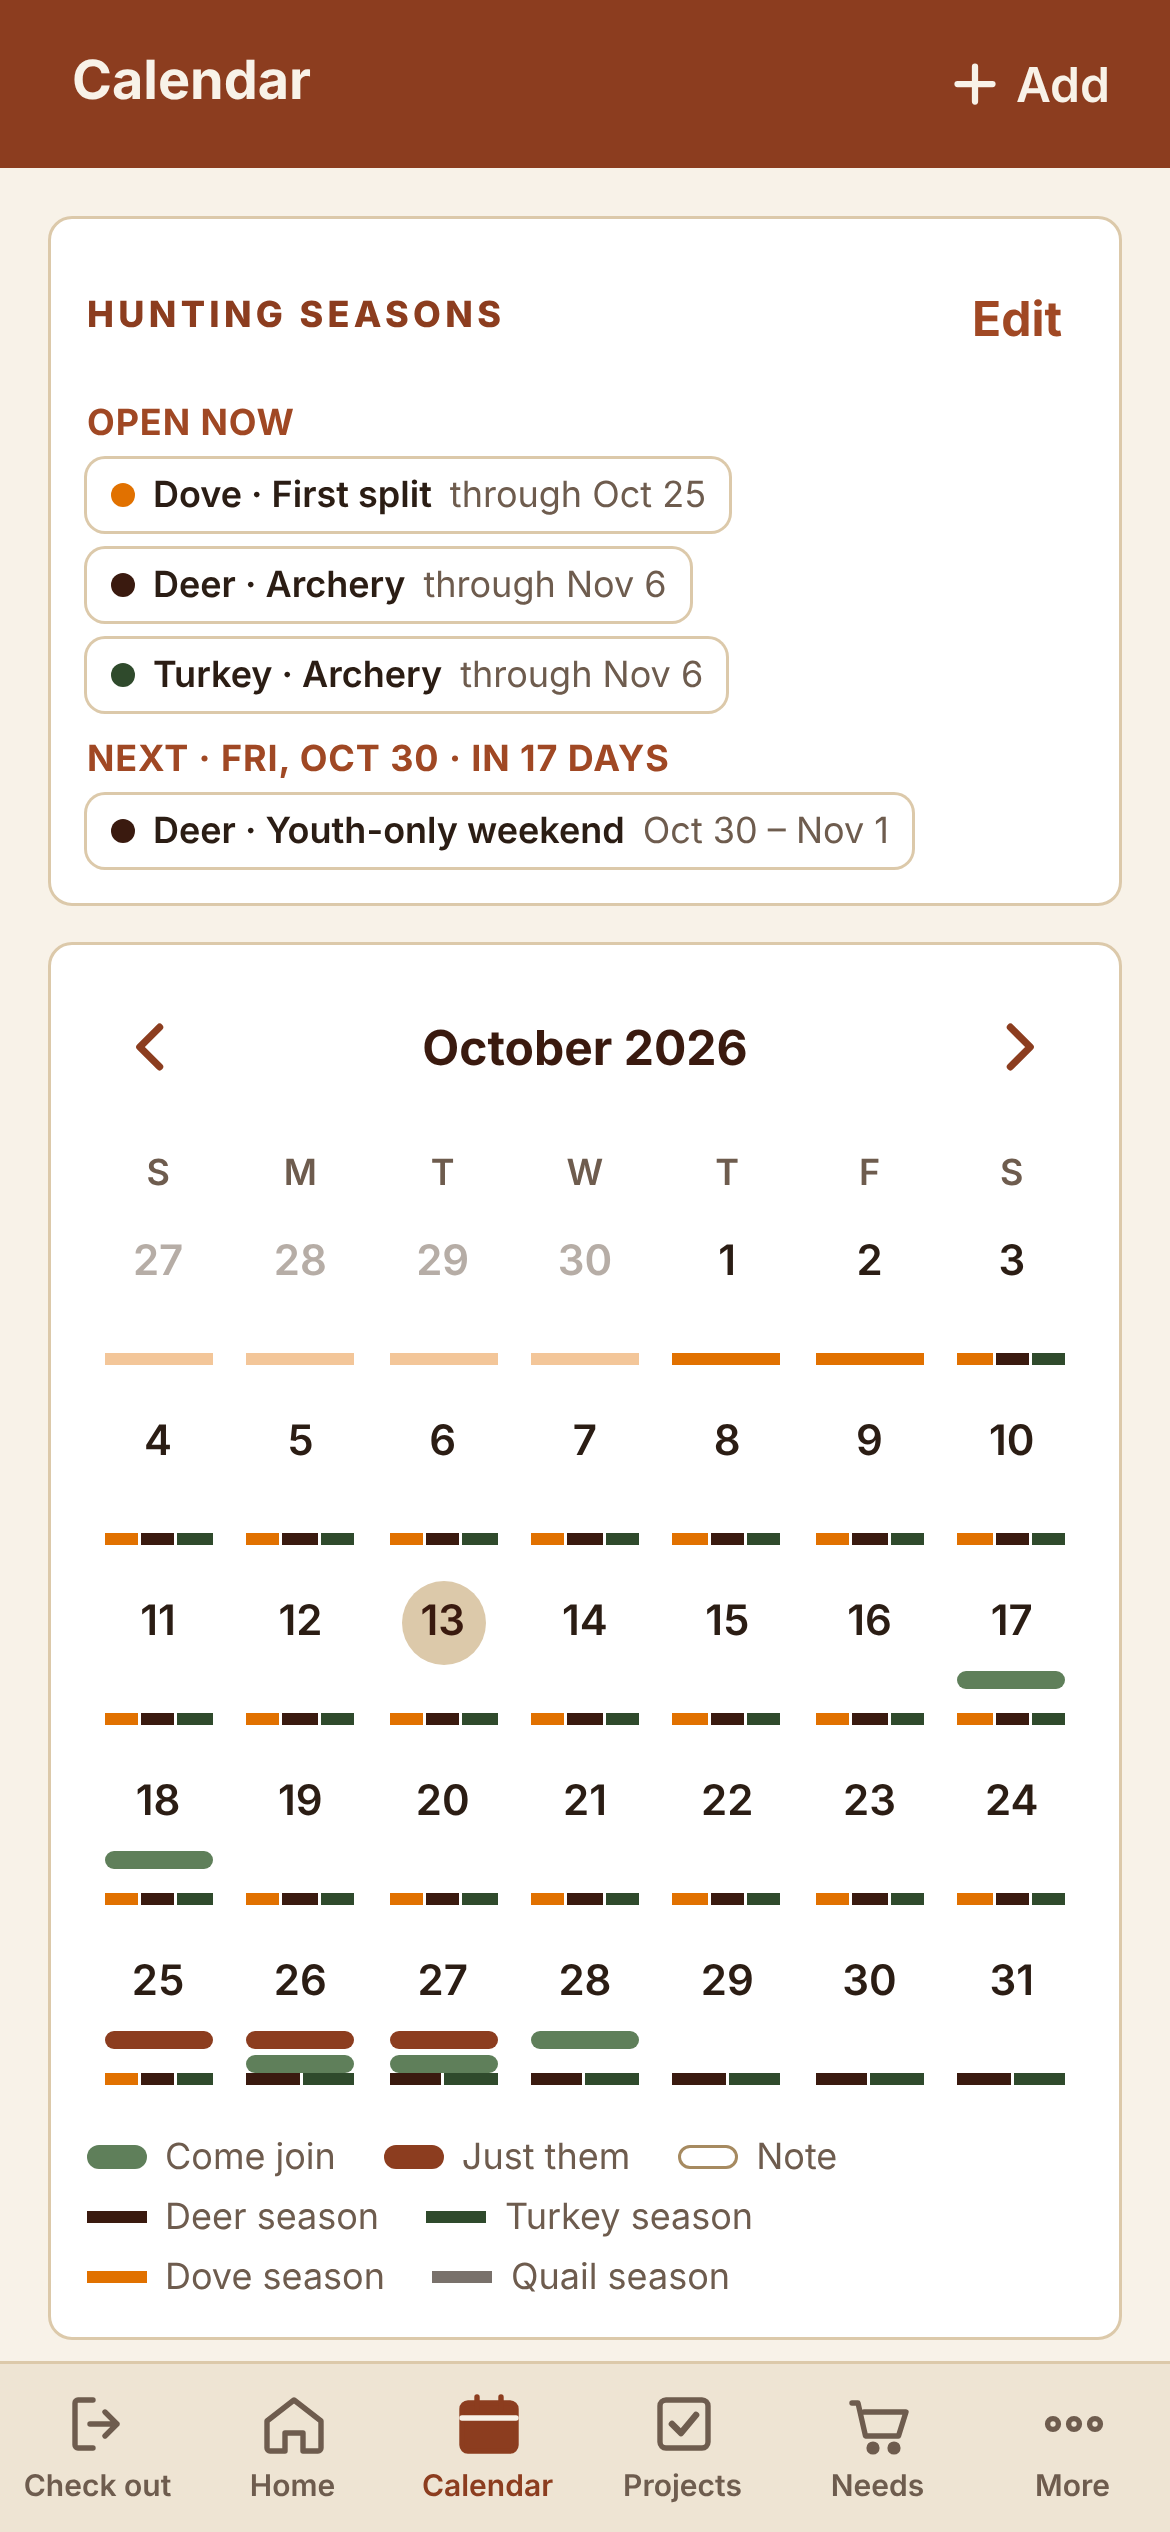
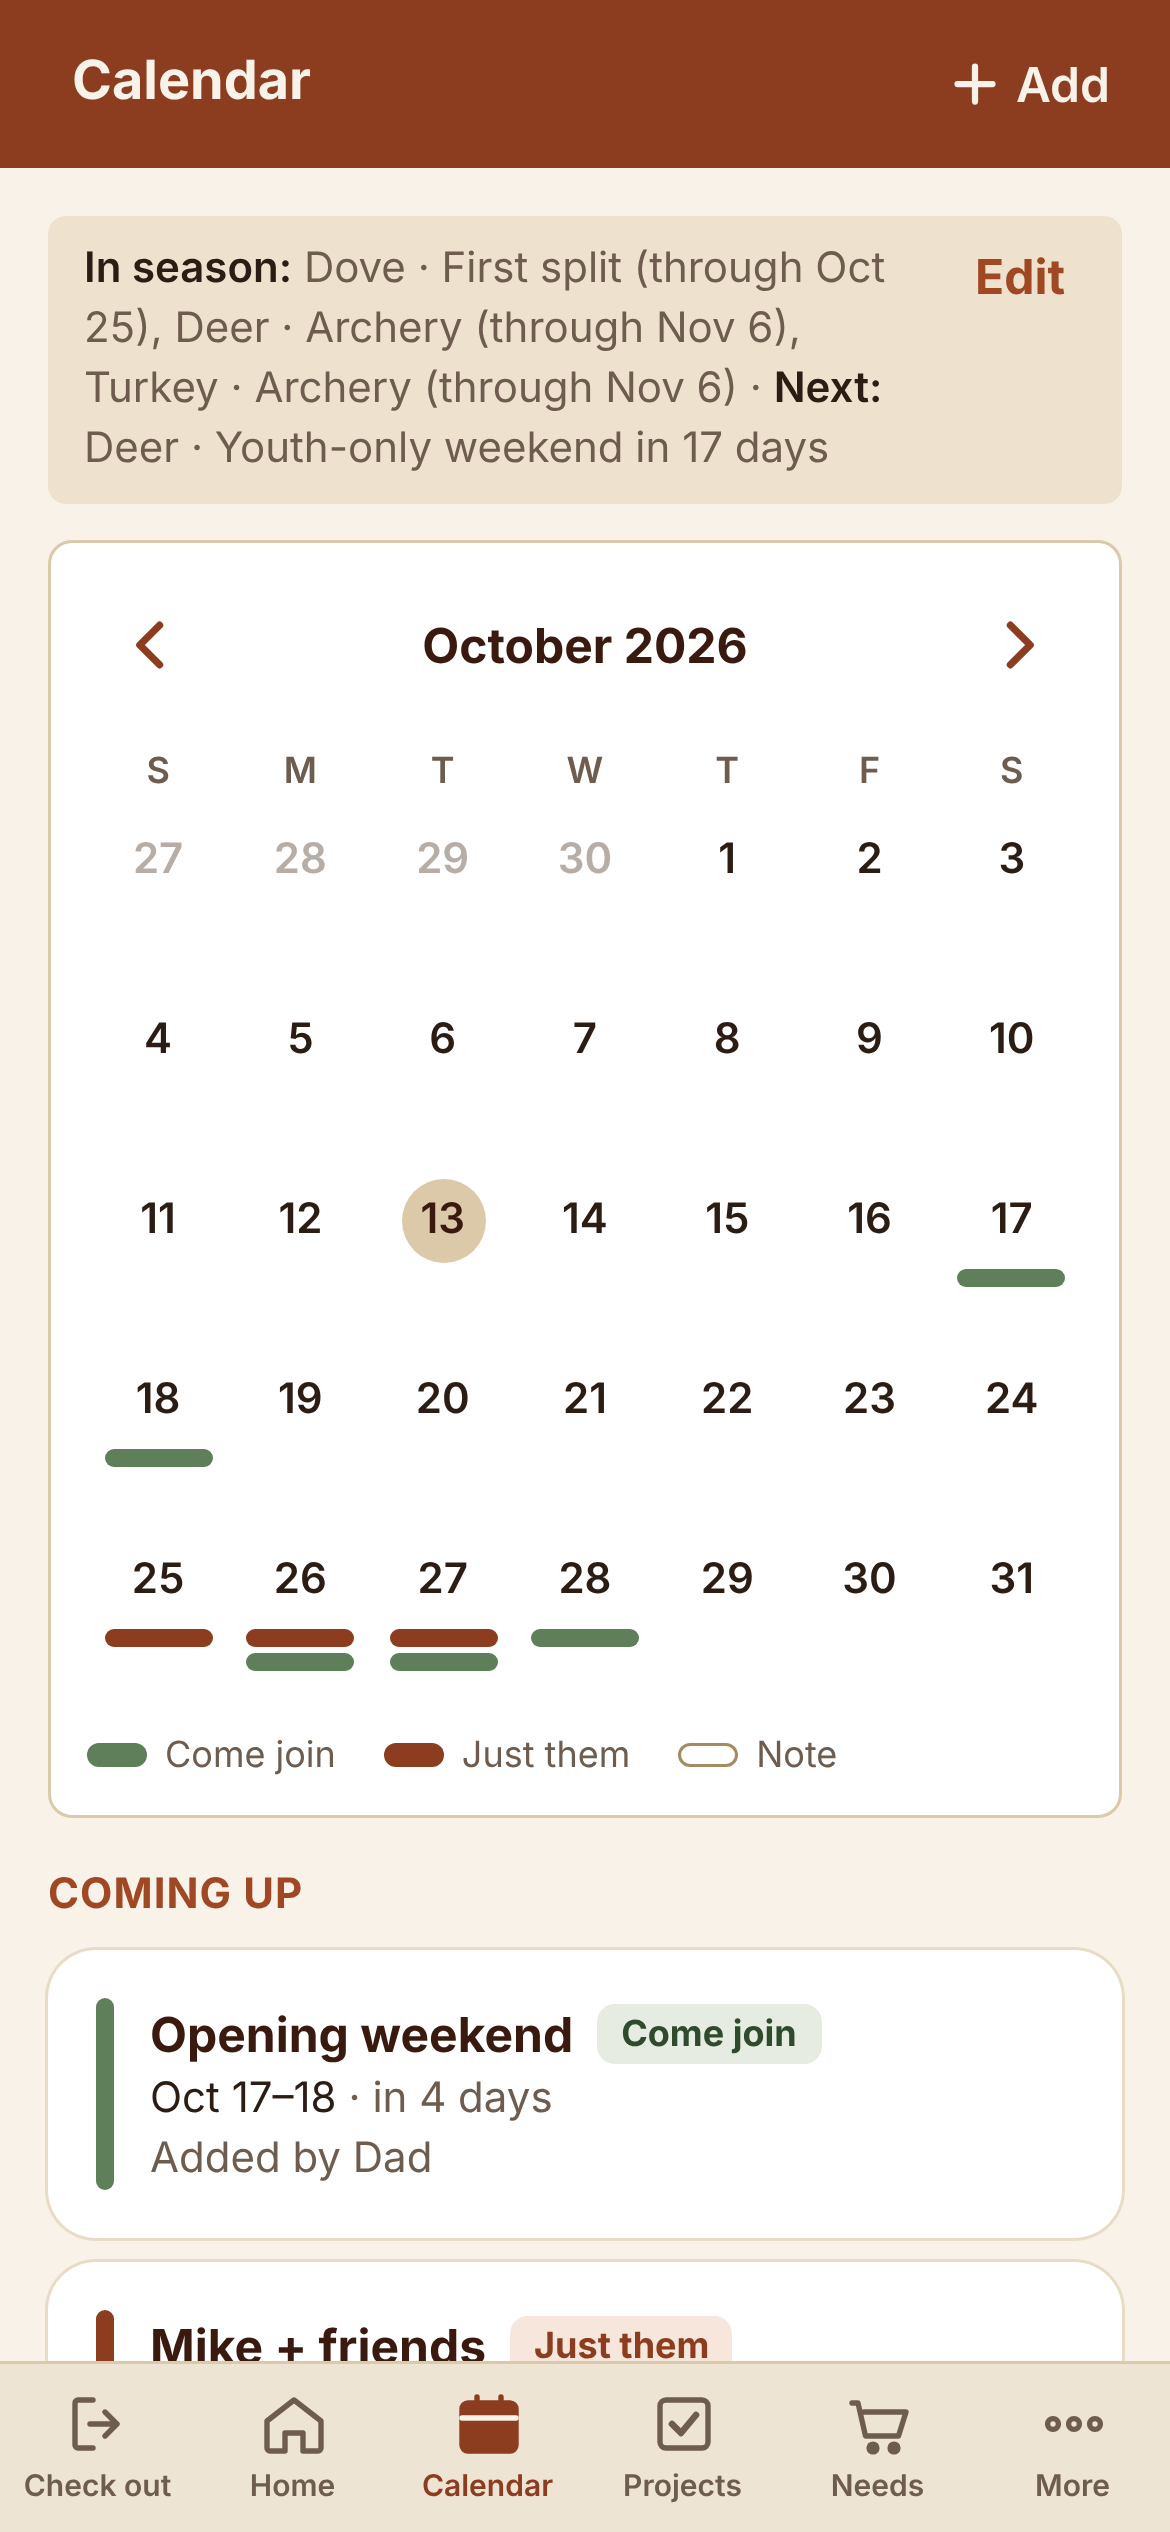
Calendar days show trips only; seasons are a ribbon above
Claude-Session: https://claude.ai/code/session_01RjS6QfguHLSCFchmoCiRhY

diff --git a/src/screens/Calendar.tsx b/src/screens/Calendar.tsx
@@ -6,8 +6,8 @@ import { EventListRow } from '../components/EventListRow'
 import { Note } from '../components/Note'
 import { Screen } from '../components/Screen'
 import type { EventRow, SeasonRow } from '../lib/database.types'
-import { SeasonChip, SeasonSummary } from '../components/SeasonChips'
-import { SPECIES, SPECIES_ORDER, loadSeasons, openOn } from '../lib/seasons'
+import { SeasonSummary } from '../components/SeasonChips'
+import { loadSeasons } from '../lib/seasons'
 import { useMe } from '../lib/session'
 import { addDays, fmtDate, monthGrid, monthName, overlaps, todayISO, WEEKDAYS_SHORT } from '../lib/dates'
 import { friendlyError } from '../lib/errors'
@@ -43,15 +43,6 @@ export function Calendar() {
   }, [reload])
   useRealtime(['events', 'event_attendees', 'seasons'], reload)
 
-  const seasonSpecies = useMemo(() => {
-    const map = new Map<string, string[]>()
-    for (const row of grid.flat()) {
-      const kinds = [...new Set(openOn(seasons, row).map((s) => s.species))]
-      if (kinds.length) map.set(row, kinds.slice(0, 4).map((k) => SPECIES[k].bar))
-    }
-    return map
-  }, [seasons, grid])
-  const usedSpecies = useMemo(() => SPECIES_ORDER.filter((k) => seasons.some((s) => s.species === k)), [seasons])
 
   const monthPrefix = `${cursor.year}-${String(cursor.month + 1).padStart(2, '0')}`
 
@@ -98,13 +89,12 @@ export function Calendar() {
       {error && <Note kind="error" className="mb-3">{error}</Note>}
 
       {(seasons.length > 0 || me.is_admin) && (
-        <Card className="mb-3 !p-3">
-          <div className="mb-2 flex items-center justify-between">
-            <div className="text-xs font-extrabold uppercase tracking-[0.12em] text-clay-900">Hunting seasons</div>
-            {me.is_admin && <button type="button" onClick={() => navigate('/more/seasons')} className="tap -mb-1 px-1 text-xs font-bold text-clay-800">Edit</button>}
+        <div className="mb-3 flex items-start gap-2 rounded-md bg-tan-200/70 px-3 py-2">
+          <div className="min-w-0 flex-1">
+            {seasons.length === 0 ? <p className="text-sm text-ink-muted">No hunting seasons entered yet.</p> : <SeasonSummary seasons={seasons} compact />}
           </div>
-          {seasons.length === 0 ? <p className="text-sm text-ink-muted">No seasons entered yet.</p> : <SeasonSummary seasons={seasons} />}
-        </Card>
+          {me.is_admin && <button type="button" onClick={() => navigate('/more/seasons')} className="tap !min-h-0 shrink-0 py-0.5 text-xs font-bold text-clay-800">Edit</button>}
+        </div>
       )}
 
       <Card className="mb-4 !p-3">
@@ -133,7 +123,6 @@ export function Calendar() {
           {grid.flat().map((iso) => {
             const inMonth = iso.startsWith(monthPrefix)
             const hits = byDay.get(iso) ?? []
-            const bands = seasonSpecies.get(iso) ?? []
             const isToday = iso === today
             const isSel = iso === selected
             return (
@@ -157,11 +146,6 @@ export function Calendar() {
                     <span key={e.id} className={`h-1.5 rounded-sm ${isSel ? 'bg-cream/80' : KIND[e.kind].bar}`} />
                   ))}
                 </span>
-                {bands.length > 0 && (
-                  <span className="mt-auto mb-1 flex w-9 gap-px" aria-hidden>
-                    {bands.map((cls, i) => <span key={i} className={`h-1 flex-1 ${isSel ? 'bg-cream/60' : cls} ${inMonth ? '' : 'opacity-40'}`} />)}
-                  </span>
-                )}
               </button>
             )
           })}
@@ -172,12 +156,6 @@ export function Calendar() {
             <span key={k} className="flex items-center gap-1.5">
               <span className={`inline-block h-2 w-5 rounded-sm ${KIND[k].bar}`} />
               {KIND[k].label}
-            </span>
-          ))}
-          {usedSpecies.map((k) => (
-            <span key={k} className="flex items-center gap-1.5">
-              <span className={`inline-block h-1 w-5 ${SPECIES[k].bar}`} />
-              {SPECIES[k].label} season
             </span>
           ))}
         </div>
@@ -194,11 +172,6 @@ export function Calendar() {
         )}
       </div>
 
-      {selected && openOn(seasons, selected).length > 0 && (
-        <div className="mb-2 flex flex-wrap gap-1.5">
-          {openOn(seasons, selected).map((s) => <SeasonChip key={s.id} season={s} />)}
-        </div>
-      )}
 
       {!events ? (
         <div className="flex justify-center py-8 text-clay-900"><Spinner /></div>

diff --git a/README.md b/README.md
@@ -44,7 +44,7 @@ Gonzales County, Texas, just south of Smiley. Gonzales CAD parcel **8554**, Abst
 - **Equipment**: house, trailer, barn, truck, tractor, ATVs, haul trailer with Good / Needs attention / Down, a note, and the projects and needs tagged to each. Anyone can add a machine; admin removes. Needs and projects pick a place or machine from this list.
 - **Blinds** are upkeep cards, not a sign-up: feeder with bag-based run-out and Filled it, motor working or down, lock, chairs, trail cam and its state, a condition line, who last checked, and what's been killed there. Anyone adds or edits a blind; admin removes. Home lists the ones that need a look.
 - **Trips**: "At the ranch now" or "Next trip" on Home. Headcount when you say you're in, shown against the number of beds.
-- **Hunting seasons** (South Zone, Gonzales County) sit on the calendar: a strip under each day, "open now" and "next" at the top, and one line on Home. Admin edits them under More > Hunting seasons; 2026-27 is seeded from the TPWD Outdoor Annual. Check the county page there before you hunt.
+- **Hunting seasons** (South Zone, Gonzales County) show as a one-line ribbon above the calendar and on Home: in season now, and next. Calendar days only show trips. Admin edits them under More > Hunting seasons; 2026-27 is seeded from the TPWD Outdoor Annual. Check the county page there before you hunt.
 - **Harvests**: who, date, species, sex, description or score, pin or GPS spot, Texas **tag number** and **logged on license**, notes. Season totals (Sept–Aug) by person and species.
 - **Photos** were cut by decision: photo storage is the one part of the stack that needs looking after over time.
 

diff --git a/SPEC.md b/SPEC.md
@@ -52,7 +52,7 @@ A shared app for one family hunting property. It answers four questions for ever
 - When you say you're in, you give a headcount. The trip shows "6 people, 4 beds" (beds is a setting) and turns red when there are more people than beds.
 
 ### 2b. Hunting seasons
-- Texas seasons for the place (South Zone, Gonzales County) show on the calendar: a strip under each day, an "Open now" and "Next" card at the top, and a one-line summary on Home.
+- Texas seasons for the place (South Zone, Gonzales County) show as a one-line ribbon above the calendar and on Home: what's in season now and what's next. The calendar days themselves only show trips.
 - The admin keeps the list under More > Hunting seasons: species, name, from, to, note. Each year's dates come from the TPWD Outdoor Annual; `supabase/property.sql` ships 2026-27.
 
 ### 3. Map
